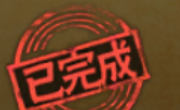
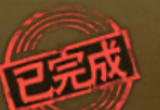
fix: recognize reward cards at screen edge

diff --git a/tests/test_reward_card_edge_templates.py b/tests/test_reward_card_edge_templates.py
@@ -1,0 +1,96 @@
+"""Replay each real task card in the last visible slot of the reward list."""
+import json
+from pathlib import Path
+
+import cv2
+import numpy as np
+import pytest
+
+from naruto_daily.common.execution import execution_scope
+from naruto_daily.common.navigation import navigate_to_card
+from naruto_daily.common.visual import find_template_in_png
+from test_execution import Clock
+
+
+ROOT = Path(__file__).parents[1]
+CASES = [
+    ('organization_pray_label.png', 'abundance_card_completed_right_edge.png', 683, True),
+    ('coin_fortune_label.png', 'coin_fortune_card.png', 187, False),
+    ('ninja_recruit_label.png', 'abundance_card_completed_right_edge.png', 1062, True),
+    ('abundance_label.png', 'abundance_card.png', 862, False),
+    ('secret_realm_label.png', 'abundance_card.png', 487, False),
+    ('survival_challenge_label.png', 'abundance_card_completed_right_edge.png', 1446, True),
+]
+
+
+def card_actions():
+    payload = json.loads((ROOT / 'config.example.json').read_text(encoding='utf-8'))
+    actions = {}
+
+    def visit(value):
+        if isinstance(value, dict):
+            if value.get('type') == 'find_card_and_click':
+                actions[Path(value['template']).name] = value
+            for child in value.values():
+                visit(child)
+        elif isinstance(value, list):
+            for child in value:
+                visit(child)
+
+    visit(payload['tasks'])
+    return actions
+
+
+def last_slot_frame(case):
+    _, fixture, title_x, _ = case
+    original = cv2.imdecode(np.frombuffer((ROOT / 'tests/fixtures' / fixture).read_bytes(),
+                                         dtype=np.uint8), cv2.IMREAD_COLOR)
+    canvas = np.zeros((1080, 1920, 3), dtype=np.uint8)
+    shift_x = 1822 - title_x
+    # The fortune fixture is a crop of the actual card, so restore its list height.
+    shift_y = 140 if fixture == 'coin_fortune_card.png' else 0
+    height = min(original.shape[0], 1080 - shift_y)
+    width = min(original.shape[1], 1920 - shift_x)
+    canvas[shift_y:shift_y + height, shift_x:shift_x + width] = original[:height, :width]
+    return cv2.imencode('.png', canvas)[1].tobytes()
+
+
+@pytest.mark.parametrize('case', CASES, ids=lambda c: c[0])
+def test_every_reward_task_in_last_slot_identifies_its_own_completion_or_button(case):
+    action = card_actions()[case[0]]
+    clock = Clock()
+
+    class LastSlotCard:
+        taps = []
+
+        def screenshot(self):
+            return frame
+
+        def swipe(self, *movement):
+            raise AssertionError('An actionable last-slot card must not be swiped again')
+
+        def tap(self, x, y):
+            assert not case[3], 'Completed card must not be clicked'
+            assert 1700 <= x < 1920 and 600 <= y <= 740
+            self.taps.append((x, y))
+
+    frame = last_slot_frame(case)
+    client = LastSlotCard()
+    with execution_scope(10, clock=clock, sleep=clock.sleep):
+        summary = navigate_to_card(client, action, asset_root=ROOT, sleep=clock.sleep)
+    assert summary.completed is case[3]
+    assert summary.swipes == 0
+    assert len(client.taps) == (0 if case[3] else 1)
+
+
+@pytest.mark.parametrize(
+    ('wanted', 'case'),
+    [(wanted[0], case) for wanted in CASES for case in CASES if wanted[0] != case[0]],
+    ids=[f'{wanted[0]}-vs-{case[0]}'
+         for wanted in CASES for case in CASES if wanted[0] != case[0]],
+)
+def test_last_slot_title_does_not_match_another_reward_task(wanted, case):
+    action = card_actions()[wanted]
+    center, _ = find_template_in_png(last_slot_frame(case), ROOT / action['template'],
+                                     (1580, 300, 1920, 560), action['threshold'])
+    assert center is None

diff --git a/tests/test_reward_card_navigation.py b/tests/test_reward_card_navigation.py
@@ -112,6 +112,30 @@ def test_completed_recruit_does_not_swipe_or_click():
     assert not client.swipes and not client.taps
 
 
+def test_completed_abundance_at_right_screen_edge_is_confirmed_without_input():
+    from naruto_daily.common.execution import execution_scope
+    from test_execution import Clock
+
+    config = json.loads((ROOT / 'config.example.json').read_text(encoding='utf-8'))
+    abundance = next(a for a in config['tasks']['abundance'] if a['type'] == 'find_card_and_click')
+    frame = (FIXTURES / 'abundance_card_completed_right_edge.png').read_bytes()
+    clock = Clock()
+
+    class CompletedCard:
+        def screenshot(self):
+            return frame
+
+        def tap(self, *point):
+            raise AssertionError('Completed abundance must not receive a click')
+
+        def swipe(self, *movement):
+            raise AssertionError('Visible completed abundance must not receive another swipe')
+
+    with execution_scope(10, clock=clock, sleep=clock.sleep):
+        result = navigate_to_card(CompletedCard(), abundance, asset_root=ROOT, sleep=clock.sleep)
+    assert result.completed and result.swipes == 0
+
+
 def test_failed_attempt_does_not_consume_the_successful_swipe_limit():
     client = RewardReplay()
     result = navigate_to_card(client, dict(action(), max_swipes=1),
